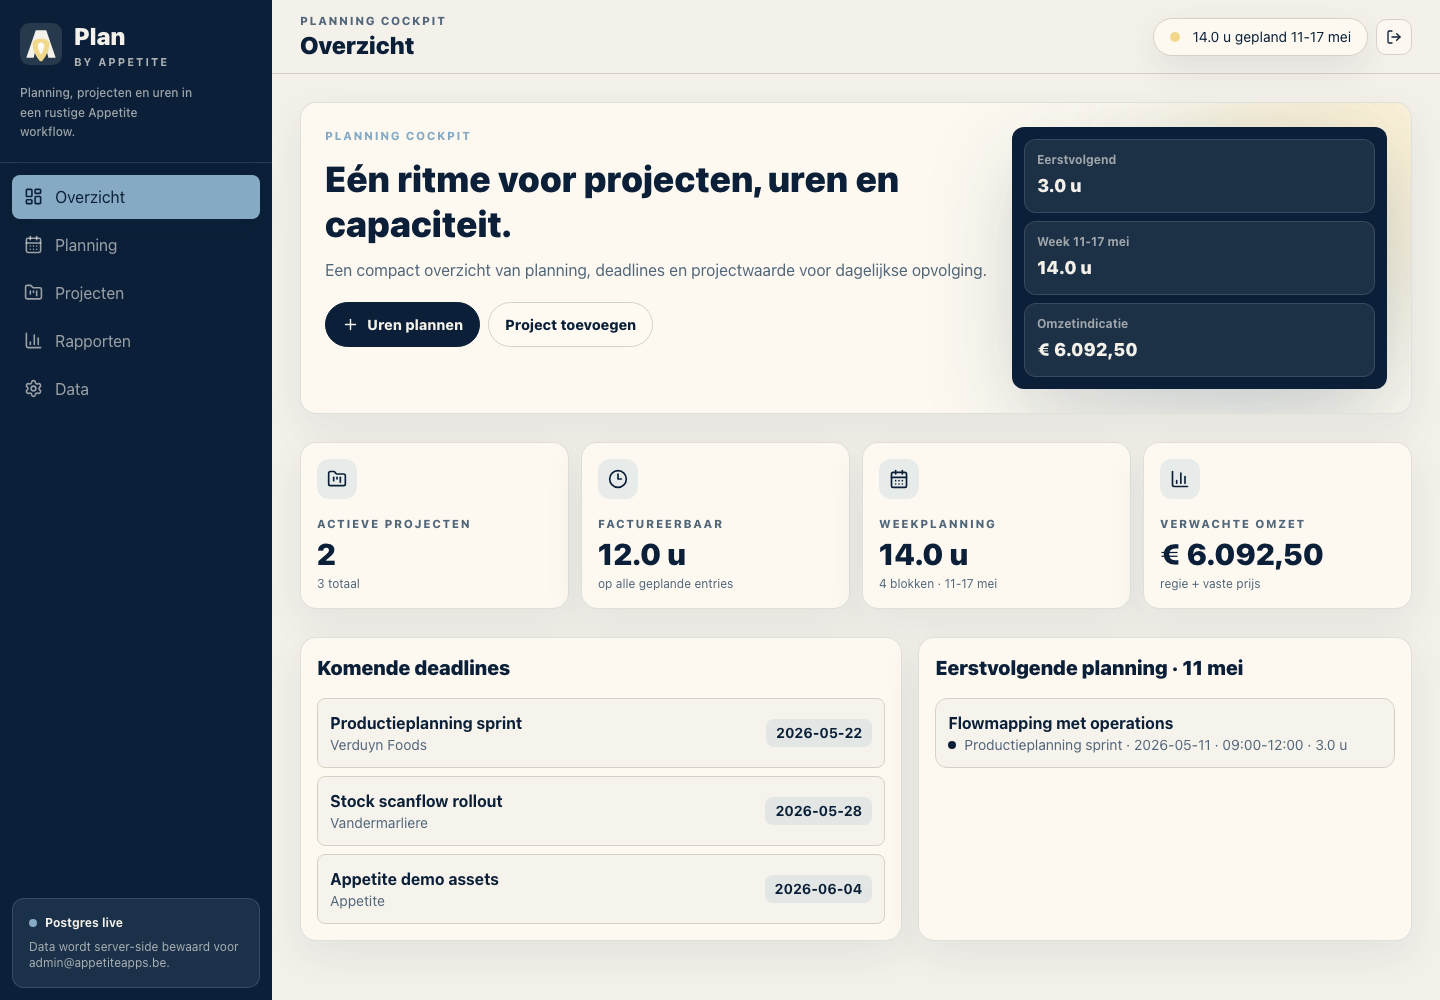
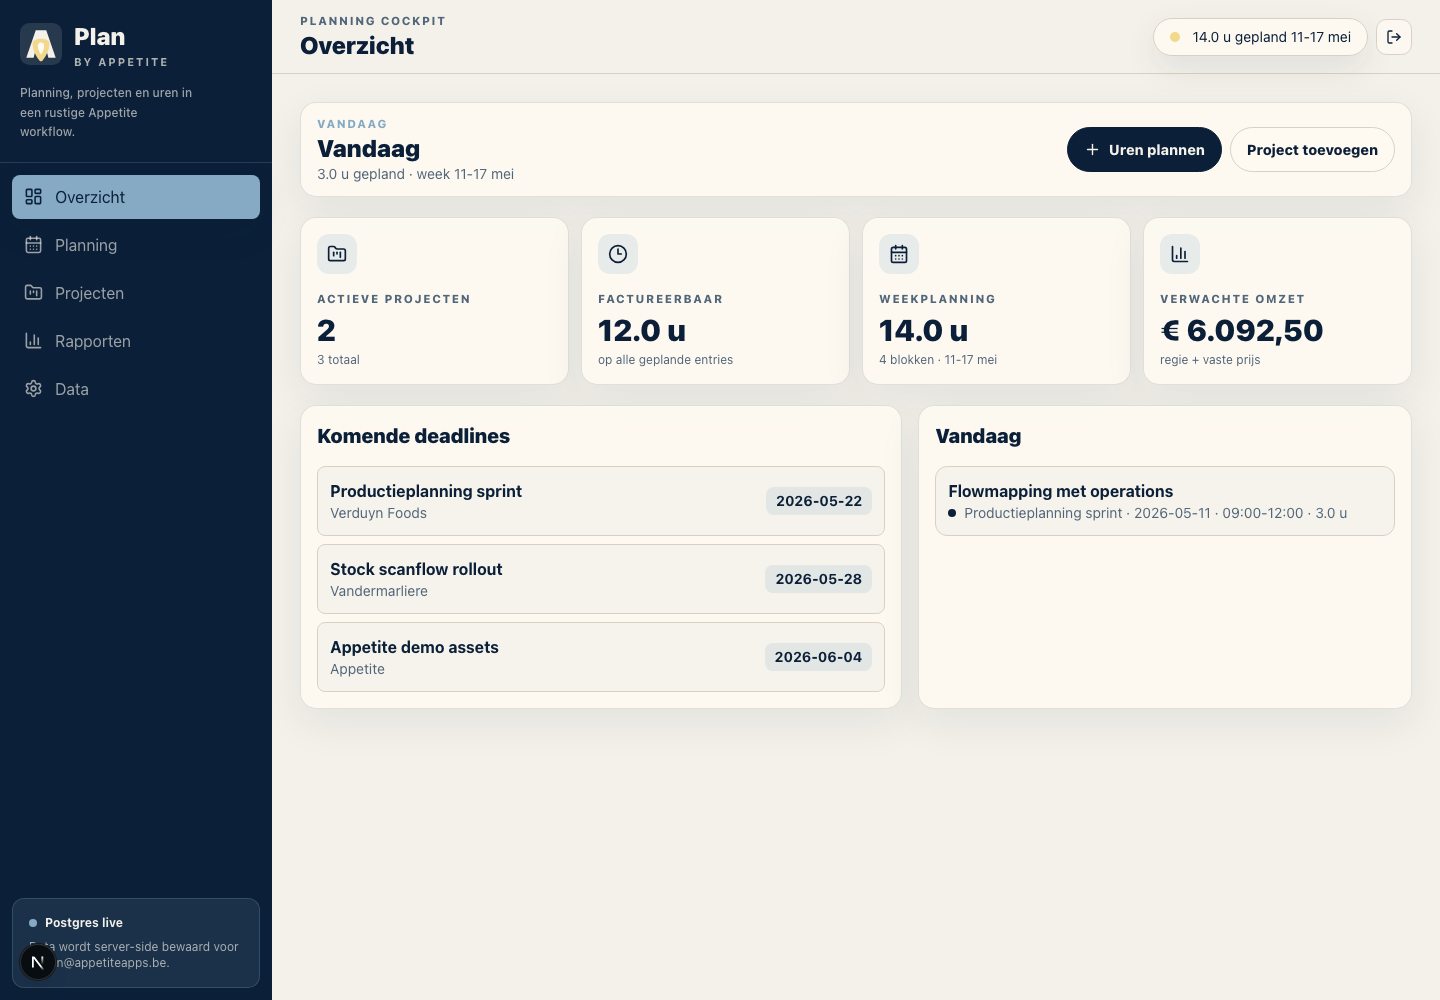
Compact dashboard landing

diff --git a/src/components/PlanApp.tsx b/src/components/PlanApp.tsx
@@ -298,34 +298,23 @@ function NavButton({
 
 function Dashboard({ state, metrics, onScreen }: { state: PlanState; metrics: ReturnType<typeof getMetrics>; onScreen: (screen: Screen) => void }) {
   return (
-    <div className="space-y-5 md:space-y-7">
-      <section className="app-panel relative overflow-hidden rounded-2xl p-4 md:p-6">
-        <div className="pointer-events-none absolute -right-24 -top-28 h-80 w-80 rounded-full bg-app-gold/28 blur-3xl" />
-        <div className="pointer-events-none absolute right-12 top-12 h-60 w-60 rounded-full bg-app-blue/24 blur-3xl" />
-        <div className="relative grid gap-5 md:grid-cols-[1.28fr_.72fr]">
-          <div>
-            <p className="app-caption text-app-blue">{screenMeta.dashboard.eyebrow}</p>
-            <h2 className="mt-3 max-w-3xl font-display text-3xl font-black leading-tight tracking-normal md:text-4xl">
-              {screenMeta.dashboard.title}
-            </h2>
-            <p className="mt-3 max-w-2xl text-app-muted">
-              {screenMeta.dashboard.text}
+    <div className="space-y-4 md:space-y-5">
+      <section className="app-panel rounded-2xl px-4 py-3">
+        <div className="flex flex-col gap-3 lg:flex-row lg:items-center lg:justify-between">
+          <div className="min-w-0">
+            <p className="app-caption text-app-blue">{metrics.todayEntries.length ? 'Vandaag' : 'Eerstvolgend'}</p>
+            <h2 className="font-display text-xl font-black tracking-normal md:text-2xl">{metrics.focusTitle}</h2>
+            <p className="text-sm text-app-muted">
+              {formatHours(metrics.todayEntries.length ? metrics.todayHours : metrics.focusEntries.reduce((sum, entry) => sum + entry.hours, 0))} gepland · week {metrics.weekLabel}
             </p>
-            <div className="mt-5 flex flex-wrap gap-2">
-              <button className="btn-primary bg-app-gold text-app-navy hover:bg-app-gold/90" onClick={() => onScreen('planning')}>
-                <Plus size={17} /> Uren plannen
-              </button>
-              <button className="btn-secondary" onClick={() => onScreen('projects')}>
-                Project toevoegen
-              </button>
-            </div>
           </div>
-          <div className="grid grid-cols-2 gap-2 self-end rounded-xl bg-app-navy p-2 text-app-paper shadow-app md:grid-cols-1 md:p-3">
-            <MiniMetric label={metrics.todayEntries.length ? 'Vandaag' : 'Eerstvolgend'} value={formatHours(metrics.todayEntries.length ? metrics.todayHours : metrics.focusEntries.reduce((sum, entry) => sum + entry.hours, 0))} />
-            <MiniMetric label={`Week ${metrics.weekLabel}`} value={formatHours(metrics.weekHours)} />
-            <div className="col-span-2 md:col-span-1">
-              <MiniMetric label="Omzetindicatie" value={formatCurrency(metrics.revenue)} />
-            </div>
+          <div className="flex flex-wrap gap-2">
+            <button className="btn-primary" onClick={() => onScreen('planning')}>
+              <Plus size={17} /> Uren plannen
+            </button>
+            <button className="btn-secondary" onClick={() => onScreen('projects')}>
+              Project toevoegen
+            </button>
           </div>
         </div>
       </section>